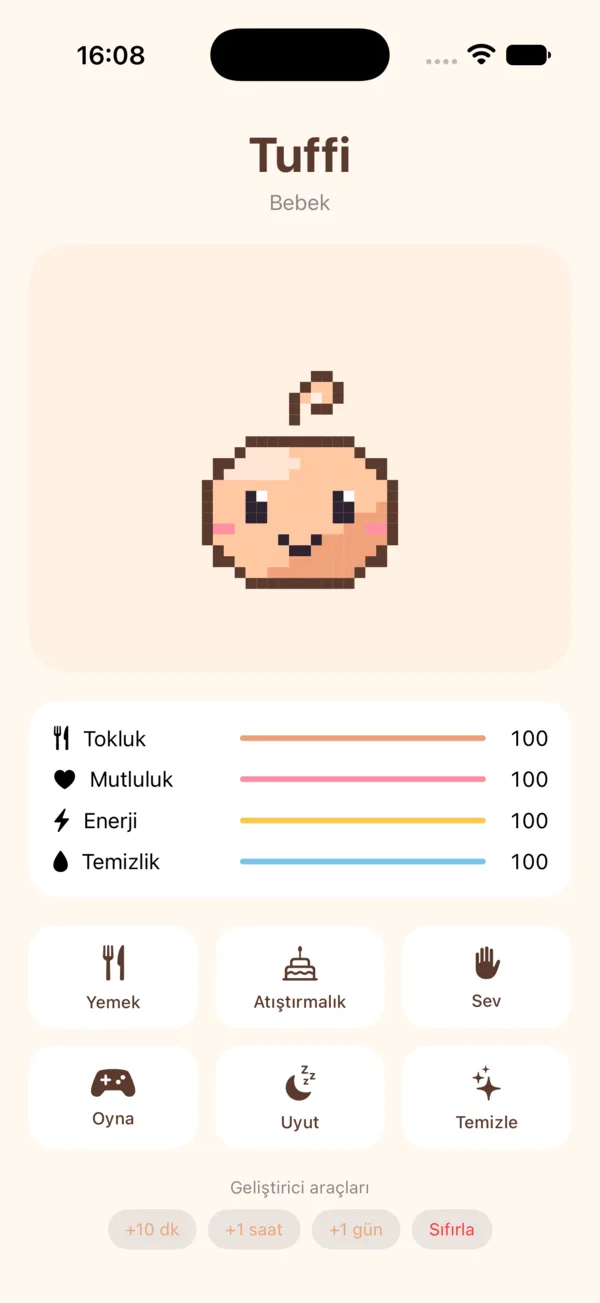
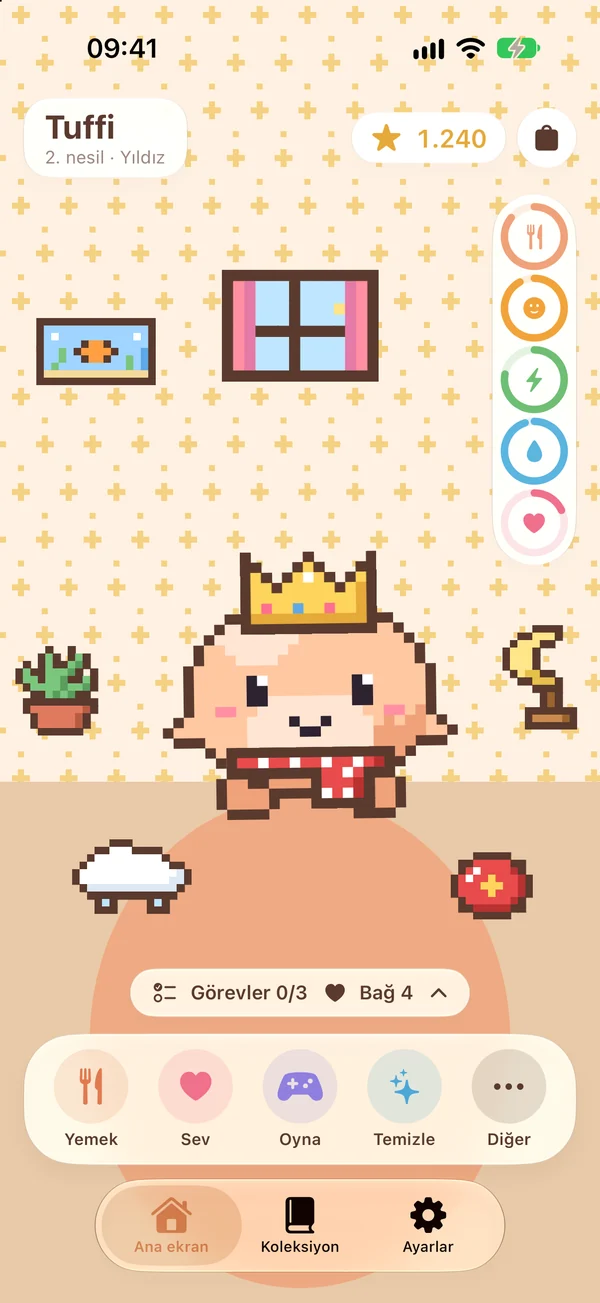
Refresh Tuffi screenshots with the shipped design

diff --git a/src/lib/apps.ts b/src/lib/apps.ts
@@ -397,7 +397,7 @@ export const apps: AppEntry[] = [
   {
     // Metinler Tuffi deposundaki 03-GDD.md, 02-para-modeli.md ve 04-isim-karakter.md ile uyumlu.
     // Kural: fiyat yazılmaz (App Store'da görünür). Tamagotchi/Bandai adı ve karakterleri geçmez.
-    // Ekranlar geçici kod çizimi karakterle alındı; Aseprite çizimleri gelince yenilenmeli.
+    // Ekranlar App Store görselleriyle aynı kaynaktan (OYUN/store-screenshots/raw/m-tr-1..6.png, 600×1303).
     slug: "tuffi",
     name: "Tuffi",
     status: "live",
@@ -415,7 +415,7 @@ export const apps: AppEntry[] = [
     category: { TR: "Oyunlar", EN: "Games" },
     accent: { from: "#5A3A2E", to: "#FFC8A2", glow: "rgba(255, 200, 162, 0.45)" },
     hasIcon: true, // Kodla çizilen bebek sprite'ından (OYUN/Tuffi/Tools/render_icon.py); son çizimle yenilenecek
-    screenshots: 2,
+    screenshots: 6,
     manifesto: {
       lead: {
         TR: "Doksanlarda cebimizde bir sanal bebek vardı.",
